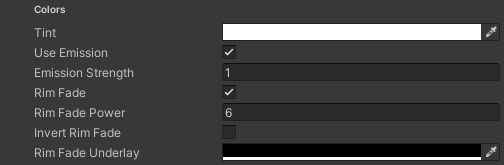
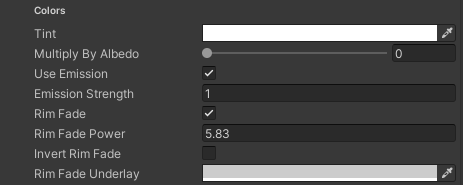
added toon decals multiply by albedo docs

diff --git a/src/pages/docs/toon/v2/index.md b/src/pages/docs/toon/v2/index.md
@@ -164,6 +164,8 @@ You can apply up to 4 decal layers to the material.
 ![Toon Shader Decals Colors](/img/docs/toon/v2/toon-decals-colors.png "Toon Shader Decals Colors")
 
 - Tint: Controls the tint of the decal
+- Multiply By Albedo: Controls the amount of albedo tint applied to the decal
+  - Very useful when using decals that use tiled textures and simple color albedo. This way you can hue shift multiple different decal layers at once via albedo hue shift
 - Use Emission: Adds Emission to the decal, uses Tint color
 - Rim Fade: Adds a rim-style edge fade effect to the decal color
 - Rim Fade Power: Controls the sharpness of the rim fade
